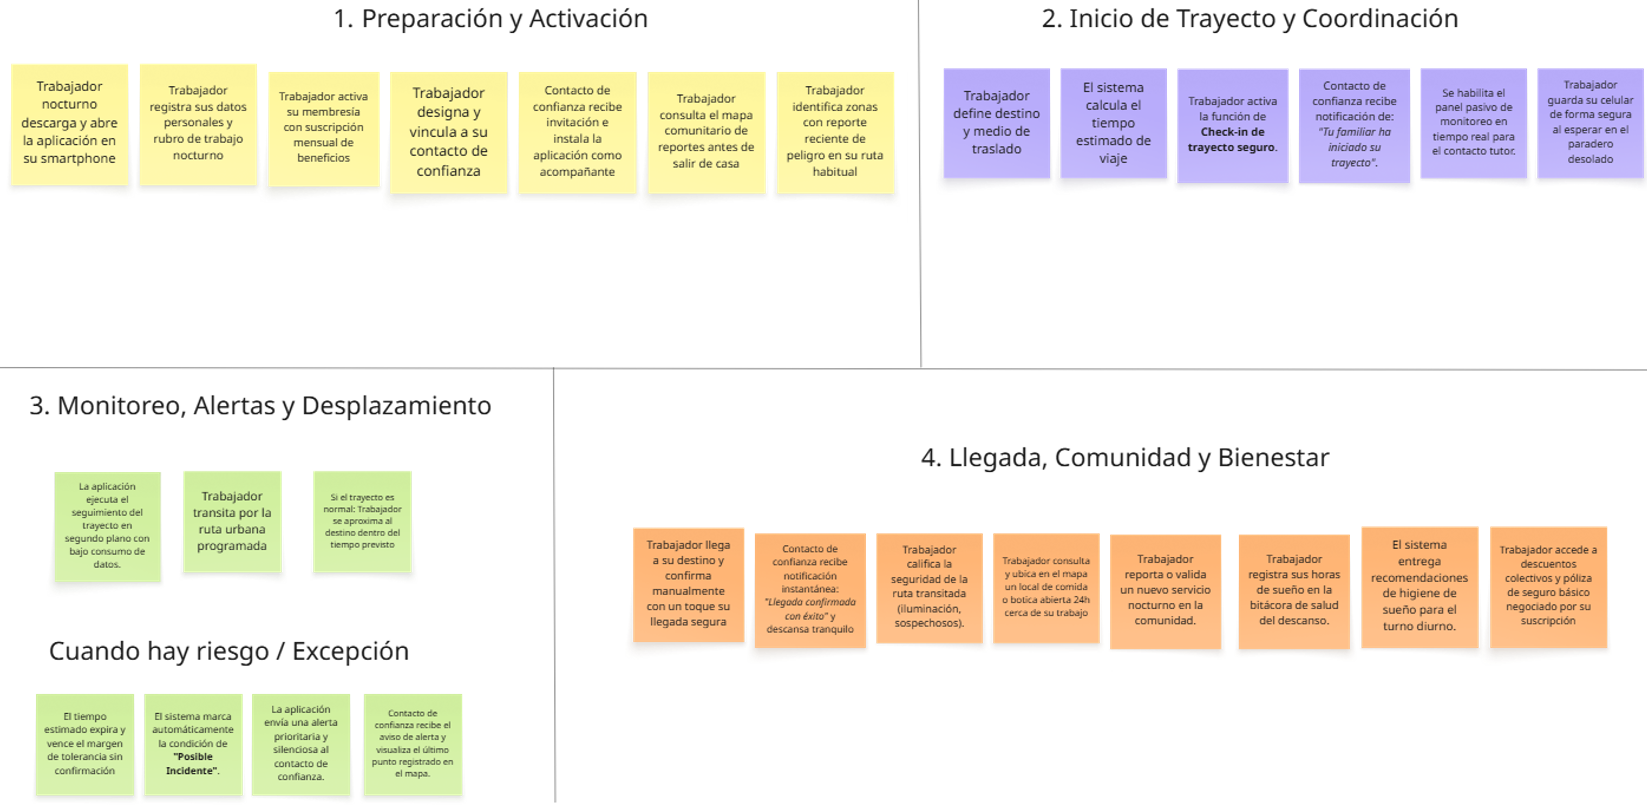
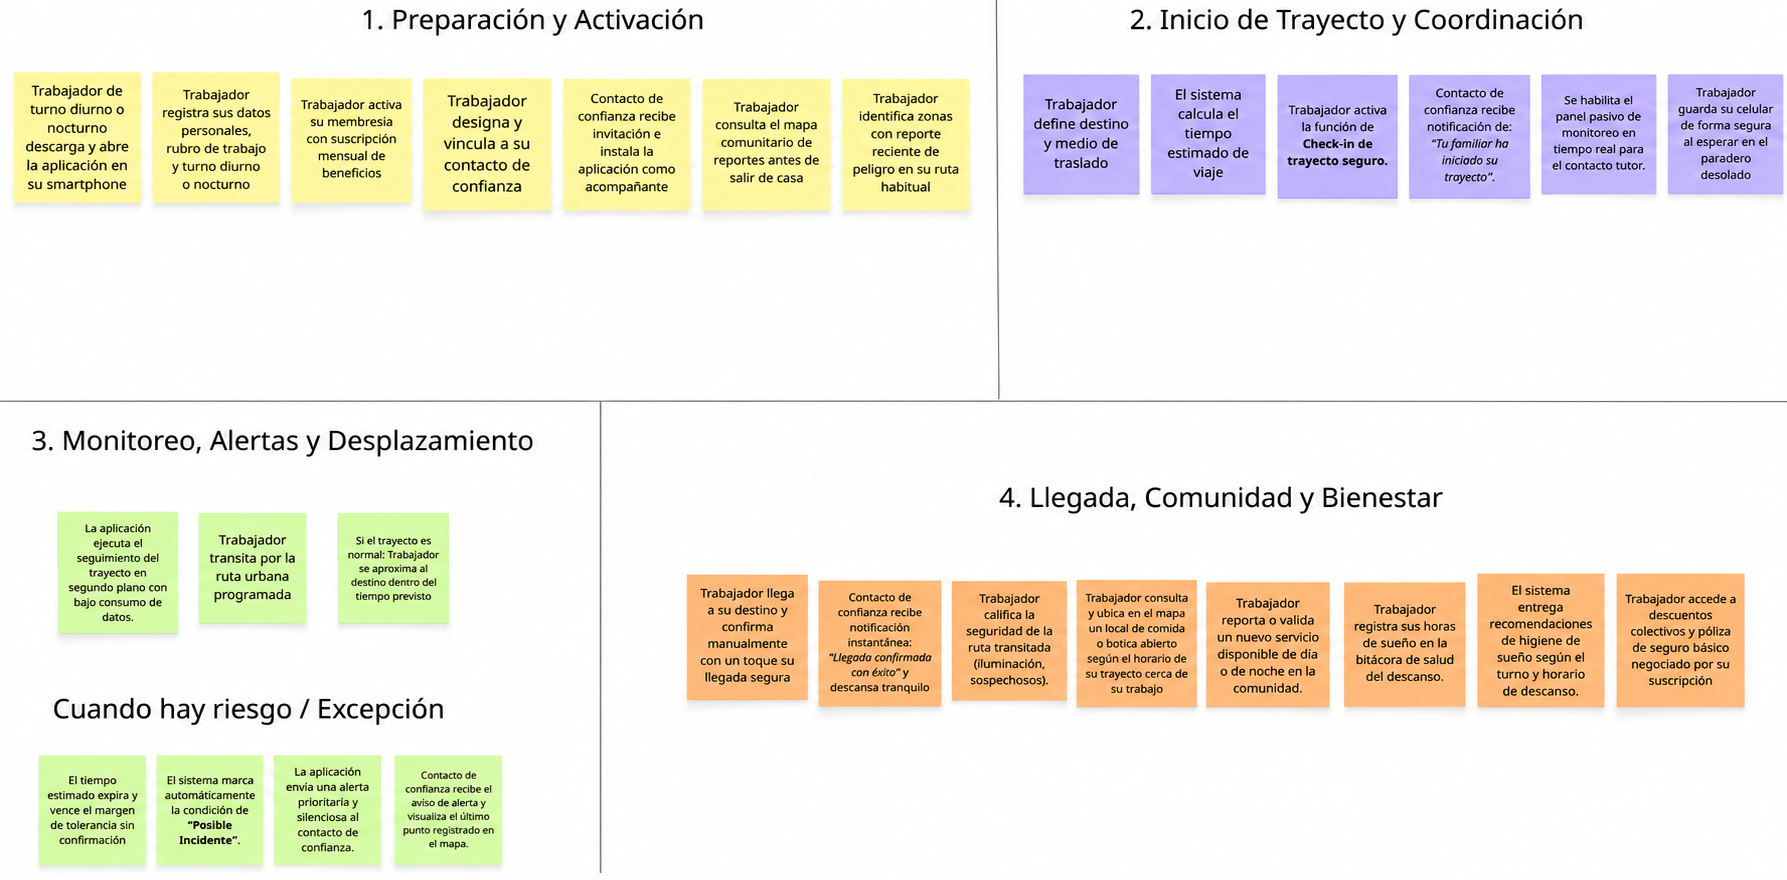
docs(eventstorming): adapt big picture flow to day and night shifts

diff --git a/README.md b/README.md
@@ -749,7 +749,7 @@ En esta sección se presentan los Empathy Maps. Estos nos ayudarán a comprender
 ![Empathy Map - Valeria Ríos](resources/imgs/em-Valeria%20R%C3%ADos.png)
 
 ## 2.4. Big Picture EventStorming.
-En esta sección, el equipo presenta el modelado integral del dominio del negocio mediante la técnica de Big Picture EventStorming. A través de un espacio colaborativo virtual (Miro / Mural), exploramos de extremo a extremo el flujo operativo de nuestra solución: desde el registro y vinculación de contactos, la ejecución de trayectos seguros nocturnos y la gestión de alertas, hasta la colaboración comunitaria en mapas de servicios y la administración de beneficios por suscripción. Este ejercicio permite alinear el lenguaje ubicuo, identificar cuellos de botella y delimitar los subdominios del sistema. 
+En esta sección, el equipo presenta el modelado integral del dominio del negocio mediante la técnica de Big Picture EventStorming. A través de un espacio colaborativo virtual (Miro / Mural), exploramos de extremo a extremo el flujo operativo de nuestra solución: desde el registro y vinculación de contactos, la ejecución de trayectos seguros diurnos y nocturnos y la gestión de alertas, hasta la colaboración comunitaria en mapas de servicios y la administración de beneficios por suscripción. Este ejercicio permite alinear el lenguaje ubicuo, identificar cuellos de botella y delimitar los subdominios del sistema. 
 
 ![Event Storming](resources/imgs/eventStorming.png)
 
